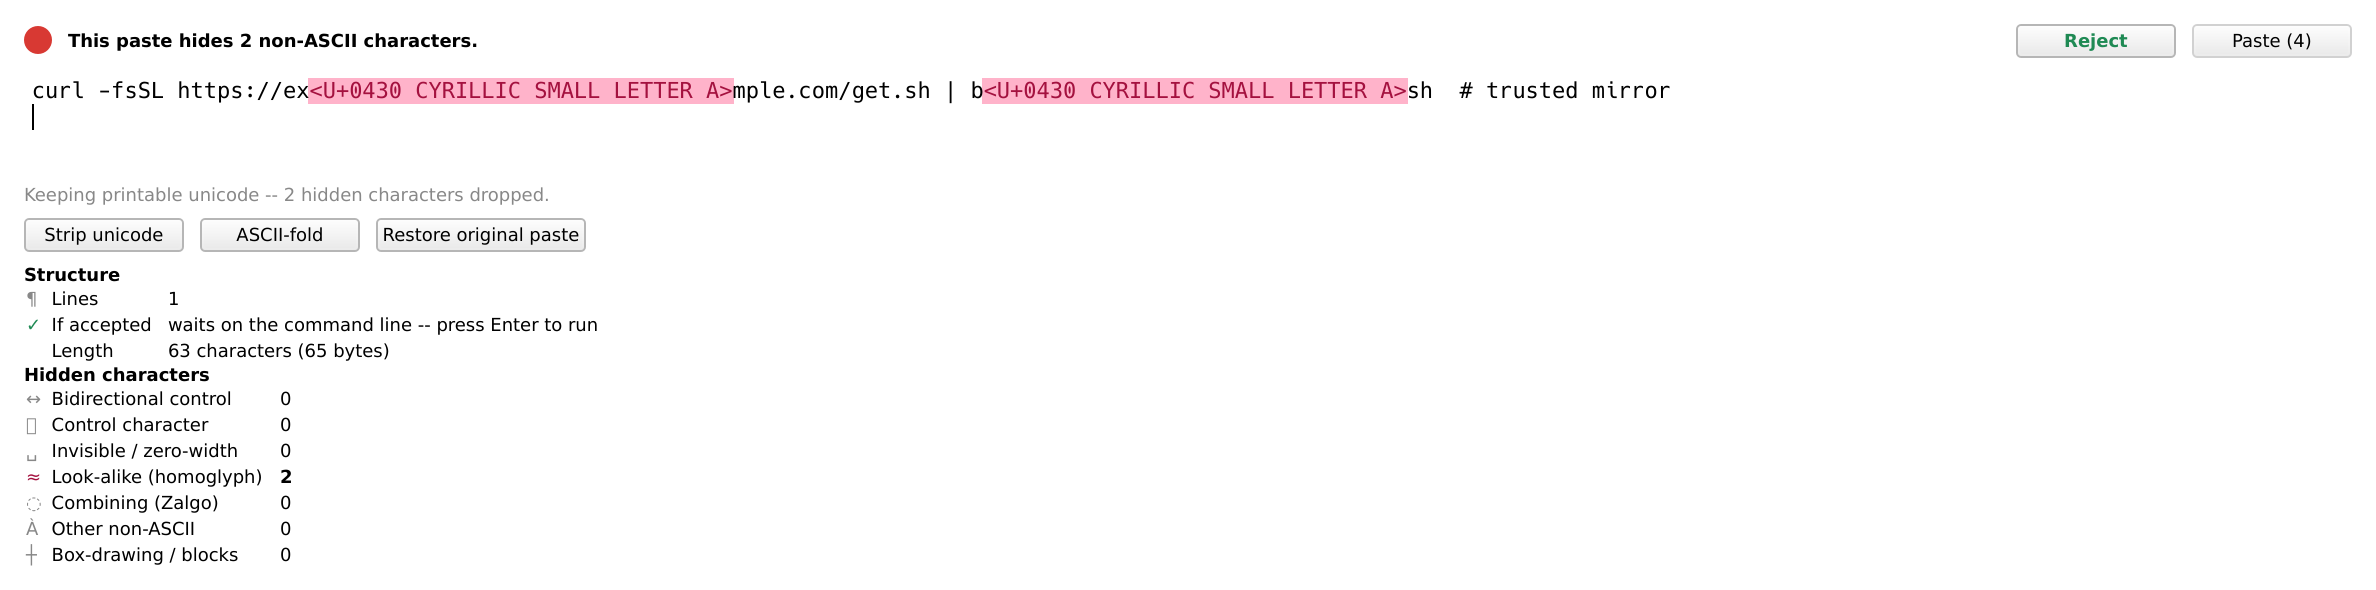
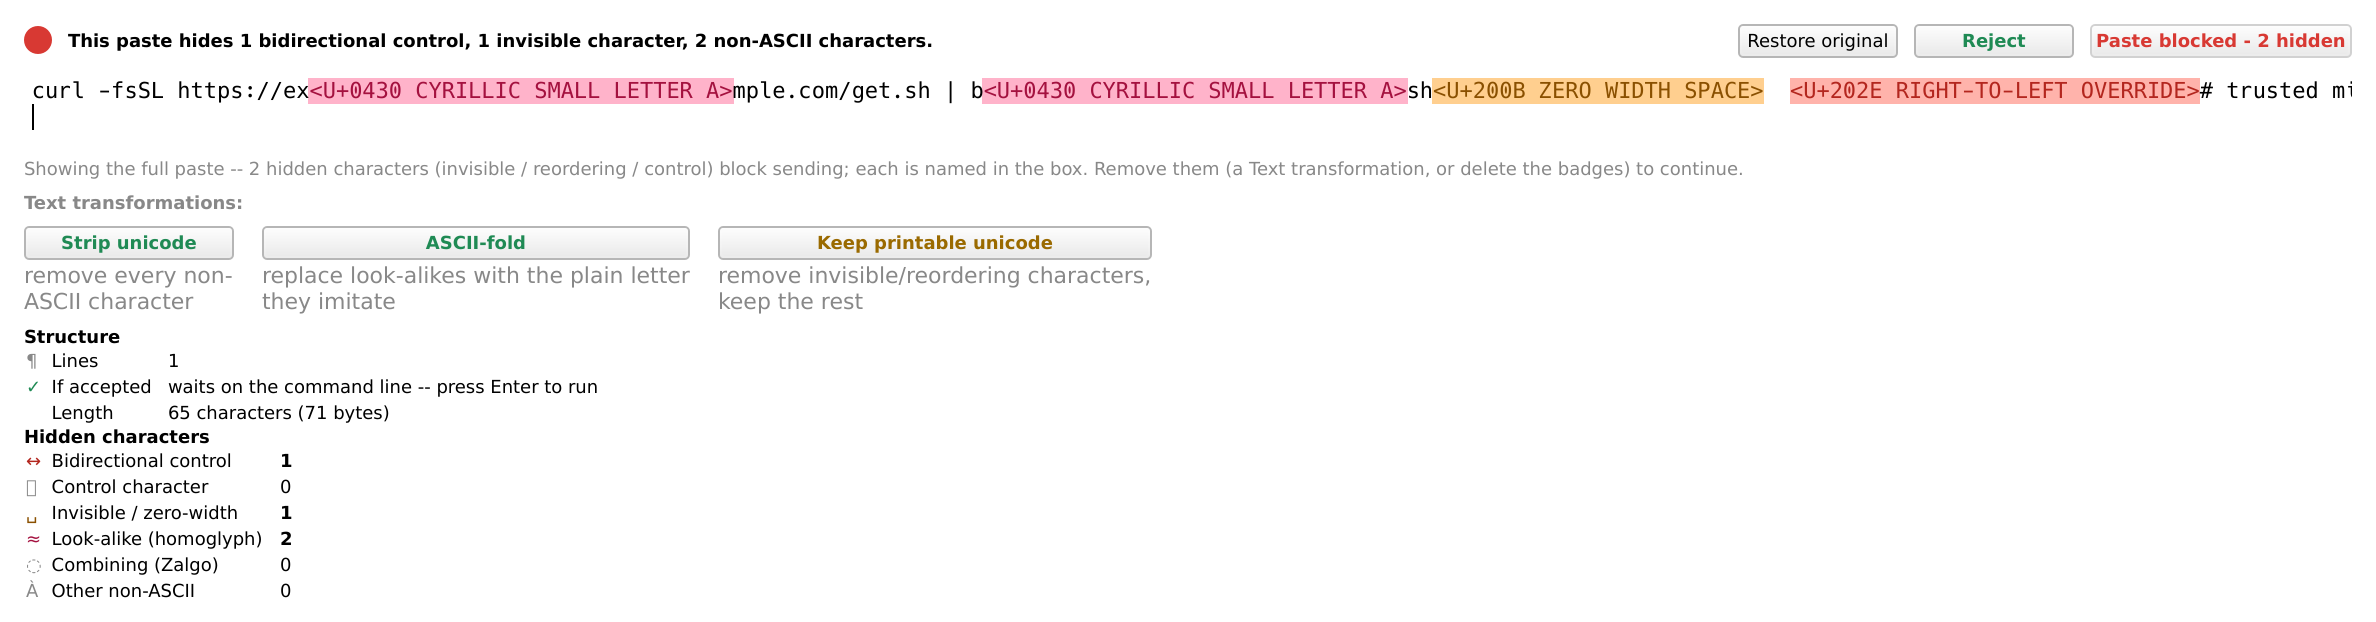
review: evidence-first bar, consistent guarantee, fresh shots
- /review/ + homepage now show the reveal-default bar (nothing pre-dropped,
  invisibles/bidi shown as badges, Deliver blocked/red until cleared) instead of
  the old auto-clean model, and document the "If accepted" guarantee as shown in
  EVERY direction with its three paste modes (shell prompt / bracketed / raw-mode
  keystrokes) plus the copy/clipboard data-placement note.
- Regenerate paste/copy screenshots from the current app (2376x622).
- Add both screenshots to /review/.

Changed region(s): [[0.0, 0.2441, 0.7163, 0.9763], [0.0, 0.0305, 0.9966, 0.1831], [0.0311, 0.0305, 0.4049, 0.0915]]

diff --git a/review/index.html b/review/index.html
@@ -66,18 +66,32 @@
   <h1>See exactly what a paste carries - before it reaches the shell.</h1>
   <p class="lede">When text crossing the terminal boundary would carry unicode or control
     characters - a paste coming in, or a selection copied out - secure-terminal holds it and
-    shows a review bar. No byte reaches the shell, or the clipboard, until you choose. It names
-    every hidden character by class, tells you what the text would do, lets you edit it, and
-    shows exactly what each choice would deliver.</p>
+    shows a review bar. No byte reaches the shell, or the clipboard, until you choose. It opens the
+    text fully revealed - every hidden character named in place, nothing pre-dropped - names each one
+    by class, tells you what accepting it would do, and lets you clear it before it crosses.</p>
 </div></section>
+
+<div class="wrap">
+  <figure class="shot" style="max-width:1000px;margin:0 auto">
+    <figcaption class="shotname"><b>The paste review</b> - a <code>curl | bash</code> line hiding two Cyrillic
+      look-alikes (in <code>example</code> and <code>bash</code>), a zero-width space and a right-to-left override,
+      opened <b>fully revealed</b>.</figcaption>
+    <a href="/shots/paste-warning.webp" target="_blank" rel="noopener"><img src="/shots/paste-warning.webp" width="2376" height="622" loading="lazy" alt="secure-terminal's in-window paste-review bar holding a hostile 'curl | bash' paste before any byte reaches the shell. A red dot and the summary 'This paste hides 1 bidirectional control, 1 invisible character, 2 non-ASCII characters.' head the bar, with a Restore original button, a safe-green Reject button and a red, disabled 'Paste blocked - 2 hidden' button top-right. The ONE editable box opens fully revealed: nothing is dropped, so the two Cyrillic look-alikes are highlighted and named inline as U+0430 CYRILLIC SMALL LETTER A, and the invisible and the reordering override are shown in place as named badges, U+200B ZERO WIDTH SPACE and U+202E RIGHT-TO-LEFT OVERRIDE. A status line reads 'Showing the full paste - 2 hidden characters block sending; each is named in the box. Remove them to continue.' Under a 'Text transformations:' heading, Strip unicode, ASCII-fold and Keep printable unicode buttons each carry a plain-language gloss. A Structure section lists 1 line, an 'If accepted: waits on the command line - press Enter to run' guarantee and a 65-character length; a live per-class Hidden-characters table names Bidirectional control 1, Invisible / zero-width 1 and Look-alike (homoglyph) 2, every other class 0."></a>
+  </figure>
+  <figure class="shot" style="max-width:1000px;margin:24px auto 0">
+    <figcaption class="shotname"><b>The same bar for a copy</b> - the "If accepted" row is present here too, and
+      reads <code>placed on the system clipboard (nothing runs)</code>.</figcaption>
+    <a href="/shots/copy-warning.webp" target="_blank" rel="noopener"><img src="/shots/copy-warning.webp" width="2376" height="622" loading="lazy" alt="secure-terminal's review bar reviewing a copy going out to the system clipboard. The summary reads 'This copy would carry 1 bidirectional control, 1 invisible character, 2 non-ASCII characters onto the clipboard.' It is the same fully-revealed single-box layout as the paste bar, with Strip unicode / ASCII-fold / Keep printable unicode transforms and a Structure section whose 'If accepted' guarantee reads 'placed on the system clipboard (nothing runs)'. The reject button reads Don't copy and the Copy button is disabled and red, 'Copy blocked - 2 hidden'; there is no countdown, since a copy is not executed."></a>
+  </figure>
+</div>
 
 <div class="wrap"><nav class="toc" aria-label="On this page">
   <p class="toch">On this page</p>
   <ul>
     <li><a href="#when">When it appears</a></li>
     <li><a href="#breakdown">The hidden-character breakdown</a></li>
-    <li><a href="#structure">Structure, and never-auto-run</a></li>
-    <li><a href="#editable">Editable before delivery</a></li>
+    <li><a href="#structure">Structure, and the guarantee</a></li>
+    <li><a href="#editable">Revealed first, then editable</a></li>
     <li><a href="#directions">Paste and copy are not symmetric</a></li>
   </ul>
 </nav></div>
@@ -94,7 +108,7 @@
       it is pure ASCII, because a hidden second line could otherwise run the instant you paste. You
       can set either direction to <code>always</code> (review every paste or copy) or
       <code>never</code> (sanitize silently, no bar). While the bar is up, input to the child is
-      suspended: nothing crosses until you pick Reject, the ASCII form, or the unicode form.</p>
+      suspended: nothing crosses until you Reject or clear the hidden characters and deliver.</p>
   </div>
 </div></section>
 
@@ -119,24 +133,36 @@
   </div>
   <p class="catdesc" style="margin-top:10px">The summary folds these into a short sentence
     ("hides 1 bidirectional control, 1 invisible character"); the table is the full,
-    copyable detail, and it recomputes live from the box on every edit. The box itself renders
-    exactly what would be delivered - each look-alike tinted and named inline - so a look-alike
-    command cannot hide behind a plain-text field, and the ASCII-fold button de-obfuscates it to
-    its real ASCII before you send it.</p>
+    copyable detail, and it recomputes live from the box on every edit. The box itself renders the
+    text fully revealed - each look-alike tinted and named inline, every invisible or reordering
+    character shown in place as a named badge - so a look-alike command cannot hide behind a
+    plain-text field, and the ASCII-fold button de-obfuscates it to its real ASCII before you send it.</p>
 </div></section>
 
 <section class="cat" id="structure"><div class="wrap">
-  <h2 class="catname"><a class="h-anchor" href="#structure">Structure, and never-auto-run</a></h2>
-  <p class="catdesc">Beyond the characters, the bar summarises the shape of the paste - and
-    guarantees it cannot run on its own.</p>
+  <h2 class="catname"><a class="h-anchor" href="#structure">Structure, and the "If accepted" guarantee</a></h2>
+  <p class="catdesc">Beyond the characters, the bar summarises the shape of the text - and tells you,
+    on an <b>"If accepted"</b> row that is <b>always present</b>, exactly what accepting it would do.</p>
   <div class="issue">
     <ul class="rb-struct">
       <li><b>Lines</b> - how many commands it would be; a multi-line paste is flagged, because
         each line is a command.</li>
-      <li><span class="rb-ok">&#10003;</span> <b>Runs on its own?</b> No. A paste never
-        auto-executes: at a shell prompt the trailing submit is removed, so the command waits at
-        the prompt for your own Enter. Under a full-screen program that has asked for bracketed
-        paste, the program receives the text as inert data instead.</li>
+      <li><span class="rb-ok">&#10003;</span> <b>If accepted</b> - shown in <b>every direction</b>, so the
+        guarantee never appears and disappears as you switch between pasting and copying. What it says
+        depends on where the bytes would land:
+        <ul>
+          <li><b>Paste at a shell prompt</b> - the trailing submit byte is removed, so the command
+            <b>waits on the command line for your own Enter</b>. It never runs on its own.</li>
+          <li><b>Paste into a full-screen program that asked for bracketed paste</b> (DEC 2004) - the
+            program <b>receives the text as inert data</b>, not keystrokes.</li>
+          <li><b>Paste into a program running in raw mode with no bracketed paste</b> (an editor in
+            insert mode, a raw-key REPL) - there is no command line to wait at, so the row says, in
+            amber, that the program <b>receives it immediately as keystrokes</b>. It still never
+            auto-runs a shell command (the trailing submit is gone), but the row does not pretend an
+            Enter is waiting - it tells you the honest truth for that case.</li>
+          <li><b>Copy or clipboard</b> - the text is <b>placed as clipboard data, and nothing runs</b>.</li>
+        </ul>
+      </li>
       <li><b>Length</b> - characters and bytes (marked as a scanned prefix when a very large paste
         is only partly scanned, so a capped count is never shown as a definite total).</li>
     </ul>
@@ -144,14 +170,20 @@
 </div></section>
 
 <section class="cat" id="editable"><div class="wrap">
-  <h2 class="catname"><a class="h-anchor" href="#editable">Editable before delivery</a></h2>
-  <p class="catdesc">If the paste is almost right, you do not have to reject it and start over.</p>
+  <h2 class="catname"><a class="h-anchor" href="#editable">Revealed first, then editable</a></h2>
+  <p class="catdesc">The box opens <b>fully revealed</b> - nothing is silently pre-dropped, so a trap
+    cannot hide by being cleaned away before you preview it. You clear it deliberately.</p>
   <div class="issue">
-    <p>The one revealed box IS editable. Trim the risky part, and the summary, the breakdown and the
-      box all update from what you typed; three buttons also transform it in place - Strip unicode,
-      ASCII-fold, or Restore original paste. Delivery then sends exactly the box - still run through
-      the same sanitizer on the way out, so an edit can never bypass the neutralization. What the box
-      shows is what crosses.</p>
+    <p>Every hidden character stays in place, named and risk-coloured. While any invisible, reordering
+      or control character remains, the deliver button is <b>disabled and red</b> ("<b>blocked - N
+      hidden</b>"), so nothing unreviewed can cross. You clear it with one of three labelled transforms
+      - <b>Strip unicode</b> (delete every non-ASCII character), <b>ASCII-fold</b> (replace each
+      look-alike with the plain letter it imitates) or <b>Keep printable unicode</b> (drop the
+      invisible/reordering characters, keep the rest) - or by editing the box directly; the summary,
+      the breakdown and the box all recompute from what you typed. <b>Restore original</b> re-reveals
+      the untouched text at any time. Delivery then enables and sends exactly the box - still run
+      through the same sanitizer on the way out, so an edit can never bypass the neutralization. What
+      the box shows is what crosses.</p>
   </div>
 </div></section>
 

diff --git a/index.html b/index.html
@@ -290,25 +290,28 @@
   <figure class="shot" style="max-width:1000px;margin:28px auto 0">
     <figcaption class="shotname"><b>The paste review</b> - a <code>curl | bash</code> line hiding two Cyrillic
       homoglyphs (in <code>example</code> and <code>bash</code>), a zero-width space and a right-to-left override.</figcaption>
-    <a href="/shots/paste-warning.webp" target="_blank" rel="noopener"><img src="/shots/paste-warning.webp" width="2376" height="590" loading="lazy" alt="secure-terminal's in-window paste-review bar holding a hostile 'curl | bash' paste before any byte reaches the shell. A red dot and the summary 'This paste hides 2 non-ASCII characters.' head the bar, with a safe-green Reject button and a counting-down Paste (4) button top-right. Below is the ONE editable, revealed box that is the exact preview of what would cross: the paste is shown with its two Cyrillic look-alikes highlighted in their risk colour and named inline as U+0430 CYRILLIC SMALL LETTER A, while the zero-width and right-to-left-override characters have been dropped. A status line reads 'Keeping printable unicode - 2 hidden characters dropped', and three buttons offer Strip unicode, ASCII-fold and Restore original paste. A Structure section lists 1 line, a 'waits on the command line - press Enter to run' guarantee and a 63-character length, and a live per-class Hidden-characters table names Look-alike (homoglyph) 2 in bold, every other class 0."></a>
-    <figcaption>The bar names what is hidden at the top, then shows the paste in <b>one editable, revealed
-      box</b> that is the exact preview of what would cross - each look-alike tinted and named inline, the
-      invisibles dropped - and breaks it down in a <b>Structure</b> section and a live per-class
-      <b>Hidden characters</b> table. Three buttons transform the box in place: <b>Strip unicode</b> deletes
-      every non-ASCII character (the domain collapses to the visibly-broken <code>exmple.com</code>),
-      <b>ASCII-fold</b> folds each look-alike to the ASCII it imitates (revealing <code>example.com</code>),
-      and <b>Restore original paste</b> reverts. The <b>Paste</b> button delivers exactly the box and is
-      gated by an anti-fat-finger countdown; only <b>Reject</b> is available immediately. Rendered headless
-      from the real bar.</figcaption>
+    <a href="/shots/paste-warning.webp" target="_blank" rel="noopener"><img src="/shots/paste-warning.webp" width="2376" height="622" loading="lazy" alt="secure-terminal's in-window paste-review bar holding a hostile 'curl | bash' paste before any byte reaches the shell. A red dot and the summary 'This paste hides 1 bidirectional control, 1 invisible character, 2 non-ASCII characters.' head the bar, with a Restore original button, a safe-green Reject button and a red, disabled 'Paste blocked - 2 hidden' button top-right. Below is the ONE editable box that opens FULLY REVEALED: nothing is dropped, so the two Cyrillic look-alikes are highlighted and named inline as U+0430 CYRILLIC SMALL LETTER A, and the invisible and the reordering override are shown IN PLACE as named badges, U+200B ZERO WIDTH SPACE and U+202E RIGHT-TO-LEFT OVERRIDE. A status line reads 'Showing the full paste - 2 hidden characters (invisible / reordering / control) block sending; each is named in the box. Remove them (a Text transformation, or delete the badges) to continue.' Under a 'Text transformations:' heading three buttons offer Strip unicode, ASCII-fold and Keep printable unicode, each with a plain-language gloss. A Structure section lists 1 line, an 'If accepted: waits on the command line - press Enter to run' guarantee and a 65-character length, and a live per-class Hidden-characters table names Bidirectional control 1, Invisible / zero-width 1 and Look-alike (homoglyph) 2, every other class 0."></a>
+    <figcaption>The bar names what is hidden at the top, then shows the paste in <b>one editable box that opens
+      fully revealed</b> - nothing is silently pre-dropped, so a trap cannot hide by being cleaned away before
+      you see it: each look-alike is tinted and named inline, and every invisible or reordering character is
+      shown in place as a named badge. While any hidden character remains, the <b>Paste</b> button is disabled
+      and red (<b>blocked - N hidden</b>) so nothing unreviewed can cross. Three transforms clear it - <b>Strip
+      unicode</b> deletes every non-ASCII character (the domain collapses to the visibly-broken
+      <code>exmple.com</code>), <b>ASCII-fold</b> folds each look-alike to the ASCII it imitates (revealing
+      <code>example.com</code>), and <b>Keep printable unicode</b> drops only the invisible/reordering
+      characters - or you edit the box directly; <b>Restore original</b> re-reveals it. Paste then enables,
+      still gated by an anti-fat-finger countdown. Rendered headless from the real bar.</figcaption>
   </figure>
   <figure class="shot" style="max-width:1000px;margin:28px auto 0">
     <figcaption class="shotname"><b>The same bar, for copy going the other way</b> - selecting and copying that
       same line in Show mode, before it reaches the system clipboard.</figcaption>
-    <a href="/shots/copy-warning.webp" target="_blank" rel="noopener"><img src="/shots/copy-warning.webp" width="2376" height="564" loading="lazy" alt="secure-terminal's review bar reviewing a copy going out to the system clipboard. The summary reads 'This copy would carry 2 non-ASCII characters onto the clipboard.' It is the same single-box layout as the paste bar - one editable, revealed box that is the exact preview of what would cross (the two Cyrillic look-alikes highlighted and named inline, the invisibles dropped), a 'Keeping printable unicode - 2 hidden characters dropped' status line, Strip unicode / ASCII-fold / Restore original paste buttons, a Structure section, and a live per-class Hidden-characters table naming Look-alike (homoglyph) 2. The reject button reads Don't copy and the Copy button is available immediately; there is no countdown, since a copy is not executed."></a>
-    <figcaption>Copy is reviewed with the <b>same single-box bar</b>, relabelled for the other direction (the reject
-      button reads <b>Don't copy</b>). The box is the exact preview of what would land on the clipboard, and the
-      same Strip unicode / ASCII-fold / Restore buttons transform it in place. There is no countdown - a copy is
-      not executed, so the anti-fat-finger gate the paste needs does not apply.</figcaption>
+    <a href="/shots/copy-warning.webp" target="_blank" rel="noopener"><img src="/shots/copy-warning.webp" width="2376" height="622" loading="lazy" alt="secure-terminal's review bar reviewing a copy going out to the system clipboard. The summary reads 'This copy would carry 1 bidirectional control, 1 invisible character, 2 non-ASCII characters onto the clipboard.' It is the same fully-revealed single-box layout as the paste bar - the two Cyrillic look-alikes highlighted and named inline, the invisible and the reordering override shown in place as named badges - with a 'Showing the full copy - 2 hidden characters block sending' status line, Strip unicode / ASCII-fold / Keep printable unicode transforms, a Structure section whose 'If accepted' guarantee reads 'placed on the system clipboard (nothing runs)', and a live per-class Hidden-characters table naming Bidirectional control 1, Invisible / zero-width 1 and Look-alike (homoglyph) 2. The reject button reads Don't copy and the Copy button is disabled and red, 'Copy blocked - 2 hidden'; there is no countdown, since a copy is not executed."></a>
+    <figcaption>Copy is reviewed with the <b>same fully-revealed bar</b>, relabelled for the other direction (the
+      reject button reads <b>Don't copy</b>). The box is the exact preview of what would land on the clipboard,
+      and the same Strip unicode / ASCII-fold / Keep printable unicode transforms clear it. The <b>If accepted</b>
+      guarantee is shown here too - for a copy it reads <b>placed on the system clipboard (nothing runs)</b>, so
+      the row is consistent whichever direction you are in. There is no countdown - a copy is not executed, so
+      the anti-fat-finger gate the paste needs does not apply.</figcaption>
   </figure>
 </div></section>
 
